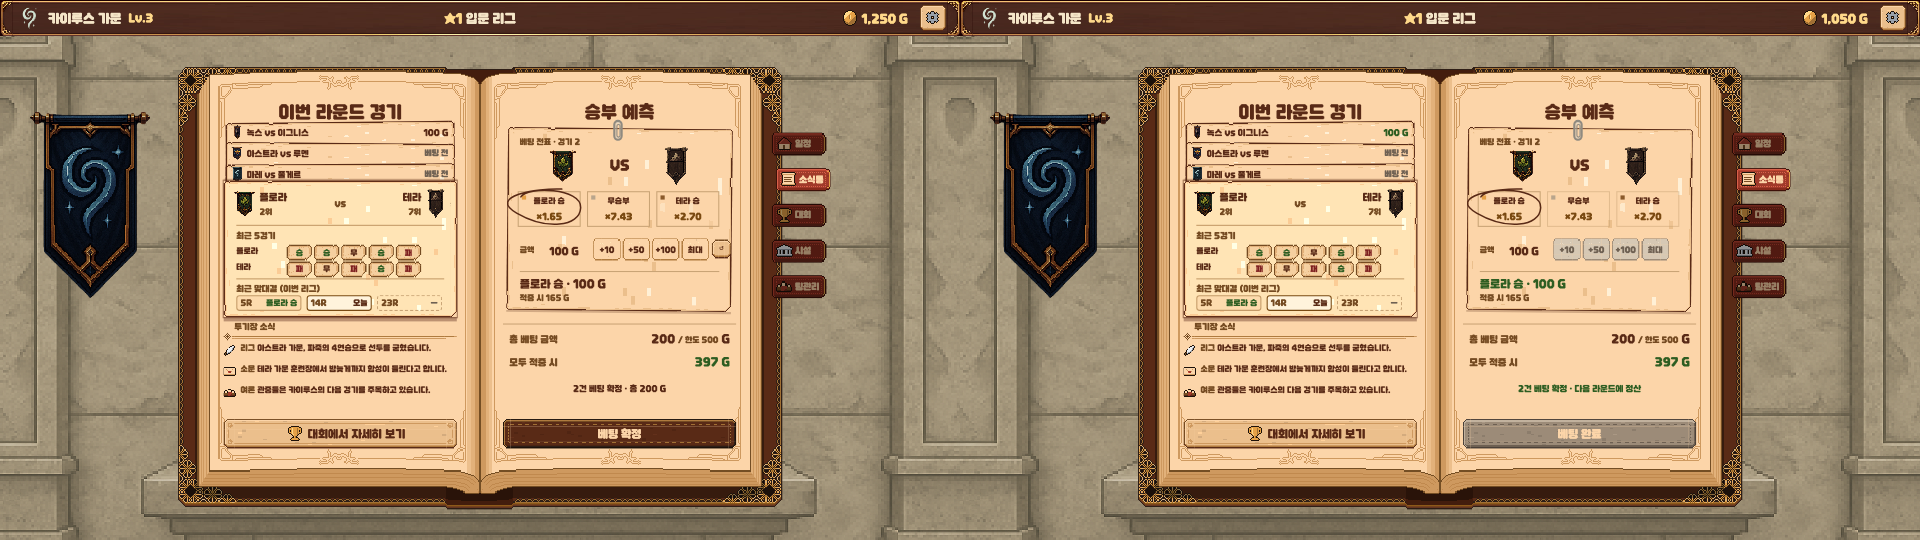
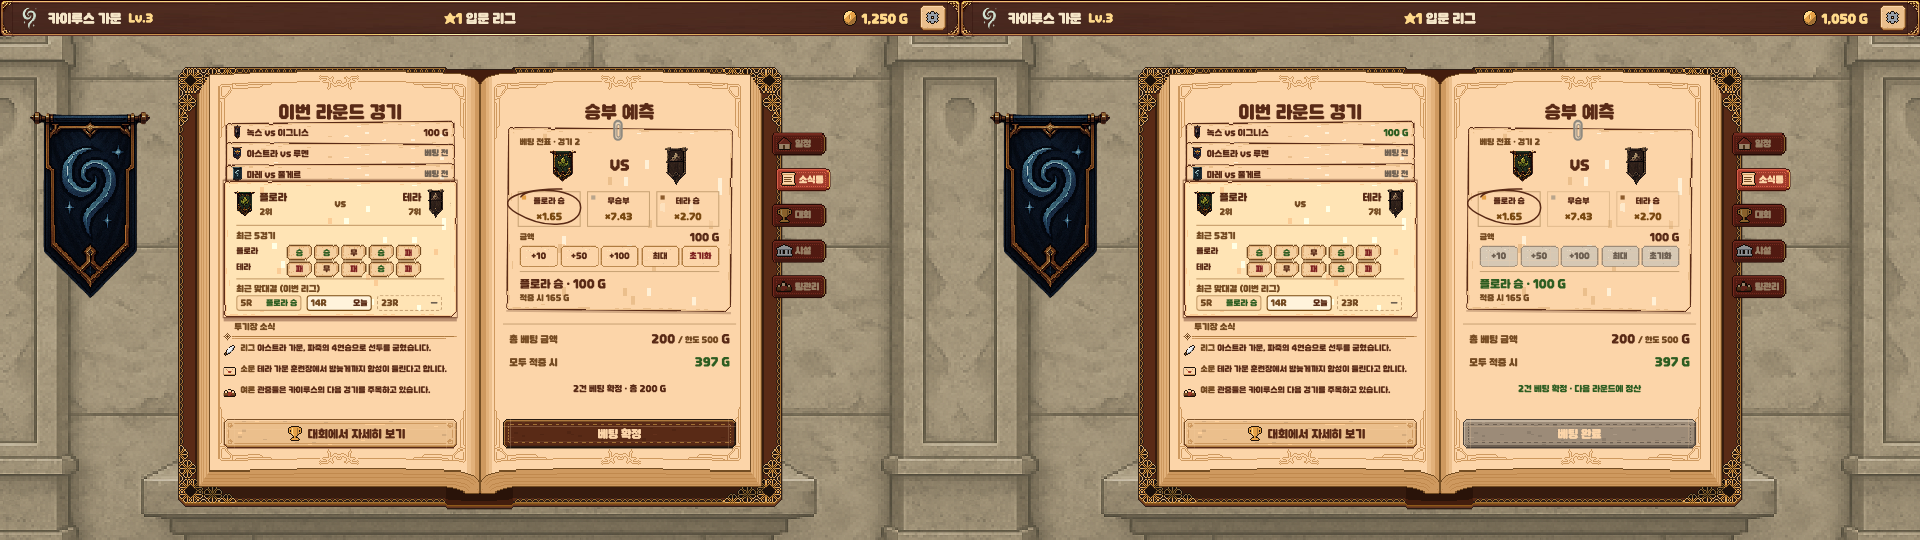
Docs: 소식통 시안 - 초기화를 글자 버튼으로, 금액 버튼 5개 균등 배치

Changed region(s): [[0.75, 0.4148, 0.875, 0.5037], [0.25, 0.4148, 0.4062, 0.5037]]

diff --git a/Docs/handover-mail/mockups/mail.html b/Docs/handover-mail/mockups/mail.html
@@ -146,11 +146,13 @@ function draw(){
     if(!lock)H+=`<div class="hit" data-pick="${i}" style="left:${x}px;top:${y}px;width:60px;height:34px"></div>`;
     if(pick==i){const s=H.length;INK(x,y,60,34);if(anim!='ink')H=H.slice(0,s)+H.slice(s).replace('<path','<path style="animation:none"');}});
   const LIMIT=500, others=[0,1,2,3].filter(k=>k!=mi&&full(k)).reduce((s,k)=>s+draft[k].stake,0), room=Math.max(0,Math.min(LIMIT,GOLD)-others);
-  T(R0+16,ty+113,EN_?'Bet':'금액',7.14,'ink2');T(R0+44,ty+113,stake+' G',9,stake?'ink':'gray');
-  [['+10',10],['+50',50],['+100',100],[EN_?'Max':'최대','max']].forEach(([lb,v],i)=>{const x=R0+86+i*28,y=ty+105,dis=lock||(v=='max'?stake>=room:stake+v>room);
-    N(dis?'01_buttons/btn_secondary_disabled':'01_buttons/btn_secondary_default',x,y,26,21,[6,8,6,8]);
-    T(x+13,y+10.5,lb,7.14,dis?'gray':'ink','mm');if(!dis)H+=`<div class="hit" data-add="${v}" style="left:${x}px;top:${y}px;width:26px;height:21px"></div>`;});
-  if(!lock&&stake){const x=R0+86+4*28+1;N('01_buttons/btn_icon_default',x,ty+106,18,18,6);T(x+9,ty+115,'↺',7.14,'ink','mm');H+=`<div class="hit" data-act="reset" style="left:${x}px;top:${ty+105}px;width:18px;height:21px"></div>`;}
+  // 금액: 라벨+현재 금액 한 줄, 버튼 5개(+10 +50 +100 최대 초기화)를 전표 안쪽 폭에 균등 배치
+  T(R0+16,ty+104,EN_?'Bet':'금액',7.14,'ink2','lm');T(R1-16,ty+104,stake+' G',9,stake?'ink':'gray','rm');
+  [['+10',10],['+50',50],['+100',100],[EN_?'Max':'최대','max'],[EN_?'Reset':'초기화','reset']].forEach(([lb,v],i)=>{const bw=36,gap=2.5,x=R0+16+i*(bw+gap),y=ty+112;
+    const dis=lock||(v=='reset'?!stake:v=='max'?stake>=room:stake+v>room);
+    N(dis?'01_buttons/btn_secondary_disabled':'01_buttons/btn_secondary_default',x,y,bw,20,[6,8,6,8]);
+    T(x+bw/2,y+10,lb,7.14,dis?'gray':(v=='reset'?'lose':'ink'),'mm');
+    if(!dis)H+=v=='reset'?`<div class="hit" data-act="reset" style="left:${x}px;top:${y}px;width:${bw}px;height:20px"></div>`:`<div class="hit" data-add="${v}" style="left:${x}px;top:${y}px;width:${bw}px;height:20px"></div>`;});
   BOX(R0+16,ty+136,190,1,'#c9a476');
   const pay=pick>=0&&stake?Math.round(stake*od[pick]):0;
   if(pay){T(R0+16,ty+143,`${lab[pick]} · ${stake} G`,10,bet?'win':'ink');T(R0+16,ty+159,EN_?`Pays ${pay} G`:`적중 시 ${pay} G`,7.14,'ink2');}

diff --git a/Docs/handover-mail/README.md b/Docs/handover-mail/README.md
@@ -27,7 +27,7 @@ git pull
   - **전력 계산 변경(엄지원 님 코드, PR 리뷰 요청)**: `EnemyTeamService.GetTeamPower` = 용병마다 레벨×4 + 등급×6 + 장착 스킬 수×3 의 합. 전력은 라운드 후 적 가문 성장으로 자동 갱신되므로 별도 저장 불필요.
   - 결과 계산에 안 쓰이는 정보(최근 5경기·맞대결·순위·새 스킬)는 넣지 않음.
   - 아래: "대회에서 자세히 보기" 버튼 → BookPageId.League.
-- **오른쪽 = 클립으로 꽂은 베팅 전표**(높이 축소): 결과 3칸(배당 "×1.65"), 누르면 잉크 동그라미 / 금액은 **더하기 버튼 +10·+50·+100·최대(공통 UI 평평한 버튼 `btn_secondary_*`) + 초기화(↺, `btn_icon_*`)** / "적중 시 n G".
+- **오른쪽 = 클립으로 꽂은 베팅 전표**(높이 축소): 결과 3칸(배당 "×1.65"), 누르면 잉크 동그라미 / 금액은 **더하기 버튼 +10·+50·+100·최대 / 초기화** 5개(공통 UI 평평한 버튼 `btn_secondary_*`, 전표 안쪽 폭에 균등 배치, 누를 수 없으면 숨기지 않고 비활성 표시. 초기화 글자는 빨강) / "적중 시 n G".
   - **라운드 베팅 한도 500 G**(보유 골드와 한도 중 작은 값까지). 한도는 이후 **시설 업그레이드 페이지에서 증액** 예정 → PR에 명시.
   - 왼쪽 카드 머리 상태: "베팅 전" / 베팅 금액만 "n G"(라운드마다 초기화되므로 '마감'·'봉인' 표시 없음). 우리 경기 베팅은 하지 않음(이기면 이미 보상). 결과+금액을 고르면 자동으로 **담음**(왼쪽 카드 머리 "담음 100 G", 경기별 저장).
   - 페이지 아래: "총 베팅 금액", "모두 적중 시" 두 줄 → 그 위 문구 "n건 베팅 확정 · 총 n G" → 버튼 **"베팅 확정"**(담은 전표 전체를 한 번에 확정, 골드 차감). 봉인 그림은 쓰지 않음.
